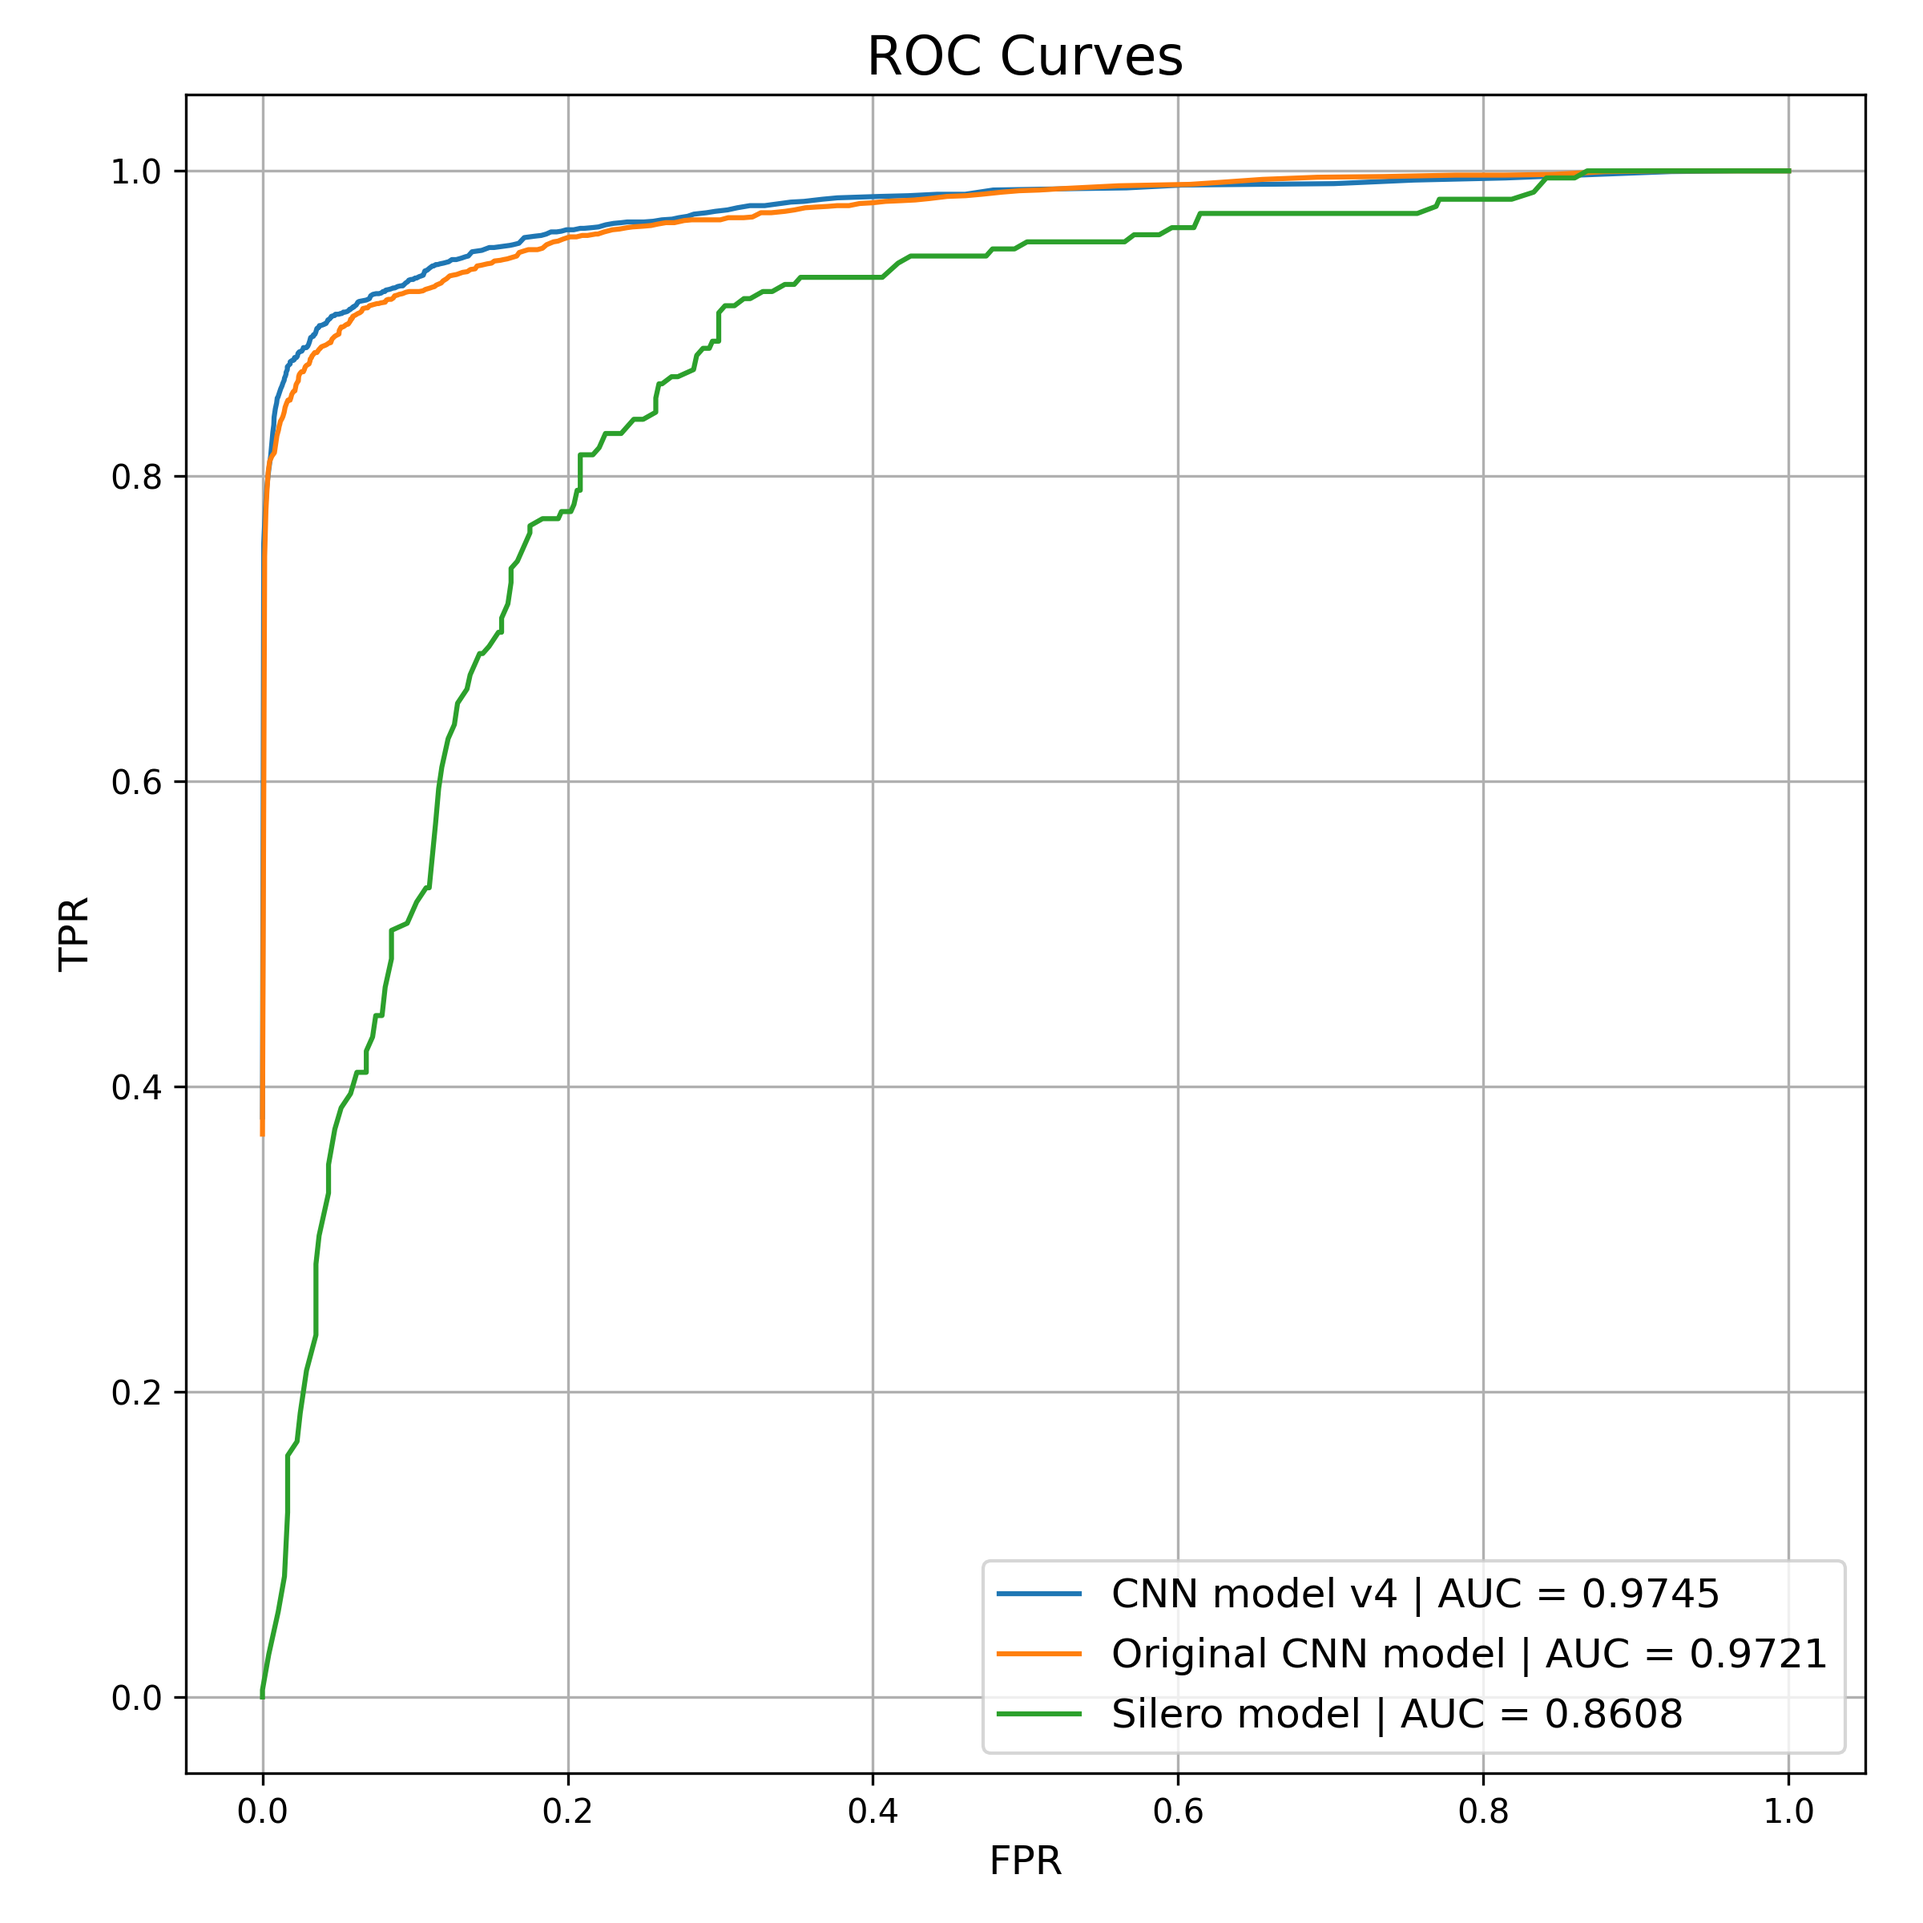
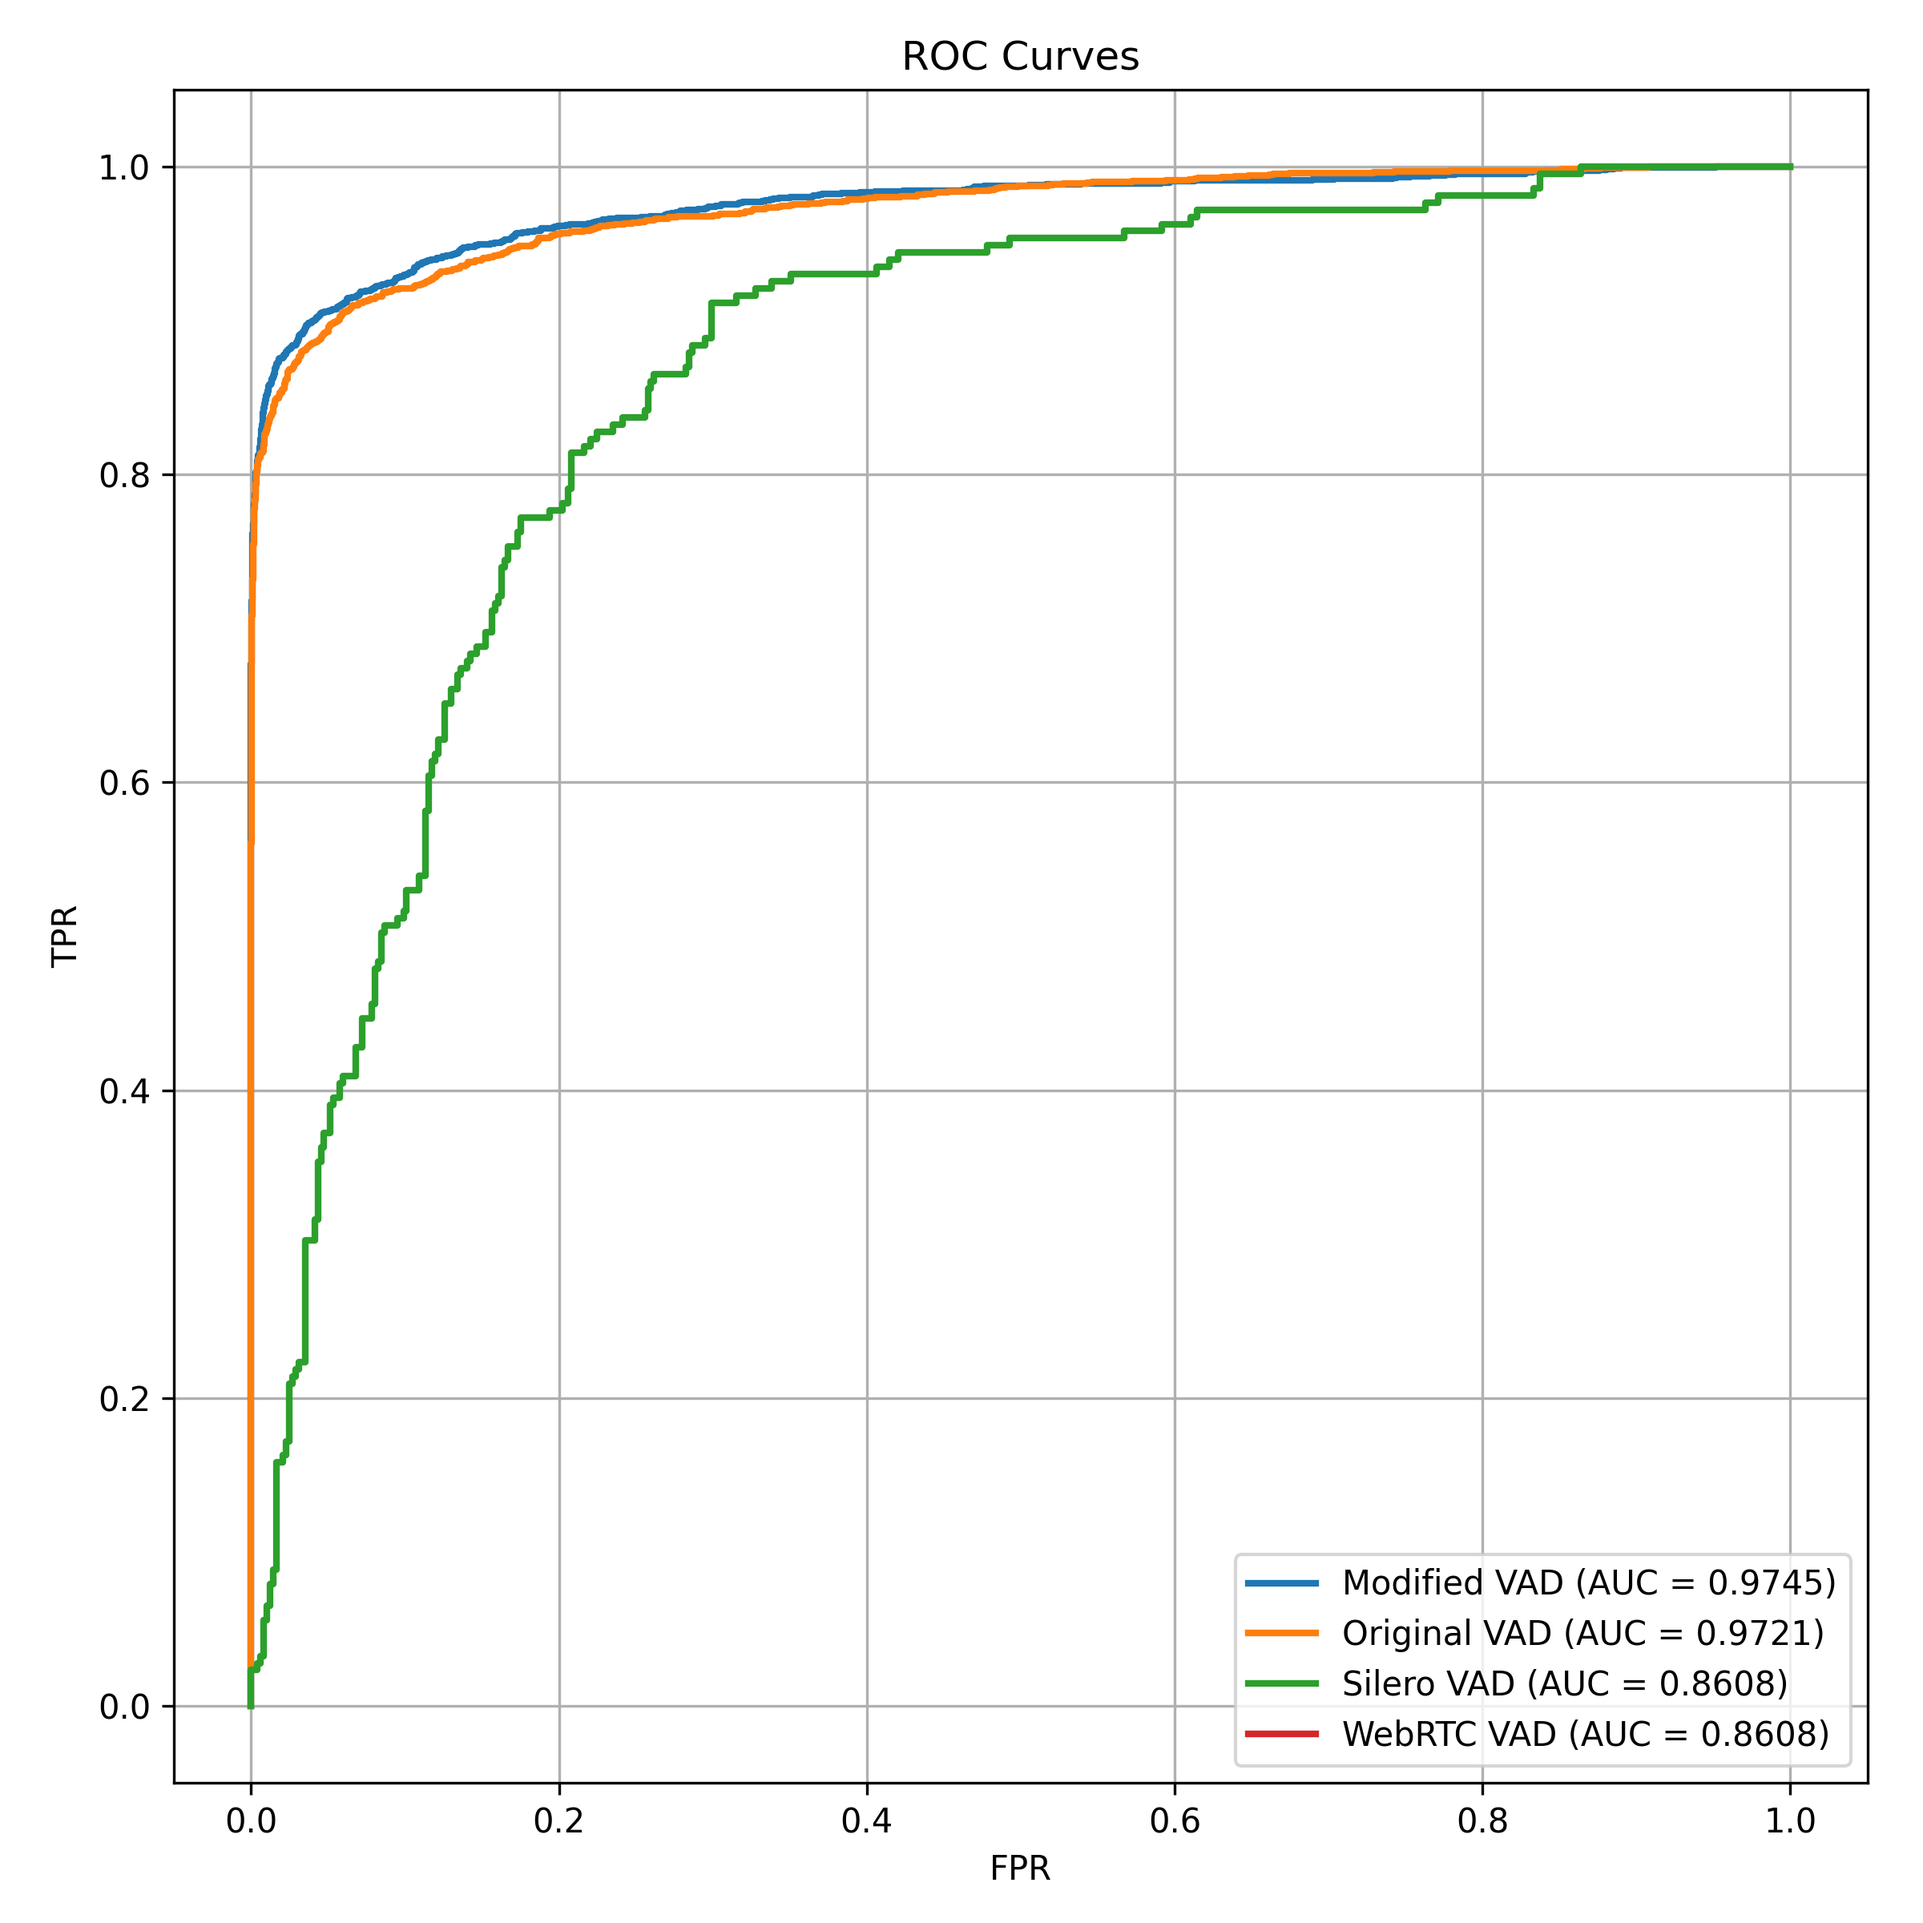
updated precision-recall and auc_roc plots for webrtc VAD

diff --git a/src/evaluation/metrics.py b/src/evaluation/metrics.py
@@ -1,63 +1,91 @@
 import numpy as np
 import matplotlib.pyplot as plt
-from sklearn.metrics import roc_auc_score
-from evaluation.confusion_matrix import calculate_confusion_matrix
+from sklearn.metrics import precision_recall_curve, roc_curve, auc
 
 
-def precision_recall_plot(labels, preds, N=200, is_webrtc=False):
-    precisions = []
-    recalls = []
-
-    if is_webrtc:
-        for i in range(4):
-            cm = calculate_confusion_matrix(labels, preds[i])
-            precisions.append(precision(cm))
-            recalls.append(recall(cm))
-    else:
-        thresholds = np.linspace(0, 1, N, endpoint=False)
-        for threshold in thresholds:
-            cm = calculate_confusion_matrix(labels, preds, threshold)
-            precisions.append(precision(cm))
-            recalls.append(recall(cm))
-
-    #recalls1, precisions1 = precision_recall_curve(original_y, original_y_)
-    # recalls2, precisions2 = precision_recall_curve(v2_y, v2_y_)
-
-    # plt.plot(recalls1, precisions1)
-    # plt.plot(recalls2, precisions2)
-    # #plt.xlim(0, 1.05)
-    # #plt.ylim(0, 1.05)
-    # plt.xlabel("Recall")
-    # plt.ylabel("Precision")
-    # plt.show()
-
-    return recalls, precisions
-
-
-def auc_roc_plot(labels_list, preds_list, model_names, N=200):
-    plt.figure(figsize=(8,8))
-    thresholds = np.linspace(0, 1, N)
+def precision_recall_plot(labels_list, preds_list, model_names):
+    plt.figure(figsize=(8, 8))
 
     for i, (labels, preds) in enumerate(zip(labels_list, preds_list)):
-        tpr = []
-        fpr = []
-        for threshold in thresholds:
-            cm = calculate_confusion_matrix(labels, preds, threshold)
-            tpr.append(recall(cm))
-            fpr.append(fp_rate(cm))
+        if model_names[i] == 'WebRTC VAD':
+            precisions = []
+            recalls = []
+            for i in range(4):
+                cm = calculate_confusion_matrix(labels, preds[i])
+                precisions.append(precision(cm))
+                recalls.append(recall(cm))
+        else:
+            precisions, recalls, _ = precision_recall_curve(labels, preds)
+            pr_auc = auc(recalls, precisions)
 
-        auc_value = roc_auc_score(labels, preds)
-
-        plt.plot(fpr, tpr, label=f'{model_names[i]} | AUC = {auc_value:.4f}')
+        plt.plot(recalls, precisions, label=f'{model_names[i]} (AP = {pr_auc:.4f})', linewidth=2)
 
     plt.gca().set_aspect('equal', adjustable='box')
-    plt.title("ROC Curves", fontsize=16)
-    plt.xlabel("FPR", fontsize=12)
-    plt.ylabel("TPR", fontsize=12)
-    plt.legend(fontsize=12)
+    plt.title("Precision-Recall Curves")
+    plt.xlabel("Recall")
+    plt.ylabel("Precision")
+    plt.legend()
+    plt.grid()
+    plt.tight_layout()
+    plt.savefig('images/precision_recall_curves.png', dpi=300)
+
+
+def auc_roc_plot(labels_list, preds_list, model_names):
+    plt.figure(figsize=(8,8))
+
+    for i, (labels, preds) in enumerate(zip(labels_list, preds_list)):
+        if model_names[i] == 'WebRTC VAD':
+            tpr = []
+            fpr = []
+            for i in range(4):
+                cm = calculate_confusion_matrix(labels, preds[i])
+                tpr.append(recall(cm))
+                fpr.append(fp_rate(cm))
+        else:
+            fpr, tpr, _ = roc_curve(labels, preds)
+            auc_value = auc(fpr, tpr)
+
+        plt.plot(fpr, tpr, label=f'{model_names[i]} (AUC = {auc_value:.4f})', linewidth=2)
+
+    plt.gca().set_aspect('equal', adjustable='box')
+    plt.title("ROC Curves")
+    plt.xlabel("FPR")
+    plt.ylabel("TPR")
+    plt.legend()
     plt.grid()
     plt.tight_layout()
     plt.savefig('images/roc_curves.png', dpi=300)
+
+
+def calculate_confusion_matrix(labels, predictions, threshold=0.5):
+    labels = np.array(labels, dtype=np.float32)
+    predictions = np.array(predictions, dtype=np.float32)
+
+    for i, prediction in enumerate(predictions):
+        if prediction >= threshold:
+            predictions[i] = 1
+        else:
+            predictions[i] = 0
+
+    tp = 0
+    tn = 0
+    fp = 0
+    fn = 0
+
+    for i, prediction in enumerate(predictions):
+        if prediction == 1 and labels[i] == 1:
+            tp += 1
+        elif prediction == 0 and labels[i] == 0:
+            tn += 1
+        elif prediction == 1 and labels[i] == 0:
+            fp += 1
+        elif prediction == 0 and labels[i] == 1:
+            fn += 1
+
+    return {'true_positives': tp,
+            'true_negatives': tn,
+            'false_positives': fp,
+            'false_negatives': fn}
 
 
 def accuracy(confusion_matrix):
@@ -71,7 +99,10 @@ def accuracy(confusion_matrix):
 def precision(confusion_matrix):
     tp = confusion_matrix['true_positives']
     fp = confusion_matrix['false_positives']
-    return tp / (tp + fp)
+    if tp + fp == 0:
+        return 1
+    else:
+        return tp / (tp + fp)
 
 
 def recall(confusion_matrix):

diff --git a/src/evaluation/__init__.py b/src/evaluation/__init__.py
@@ -12,13 +12,15 @@ from evaluation.metrics import *
 def execute_evaluation():
     labels_original, preds_original = predictions('cnn_model_original_25(12,8,5).h5')
     labels_model_v4, preds_model_v4 = predictions('cnn_model_v4_25(12,8,5).h5')
+    #labels_webrtc, preds_webrtc = predictions_webrtc('data/output/prediction_audio_clip_2/audio_clip_2_480samples')
     labels_silero = np.load('data/output/prediction_audio_clip_2/other_model_predictions/silero_labels17200.npy')
     preds_silero = np.load('data/output/prediction_audio_clip_2/other_model_predictions/silero_preds17200.npy')
 
     labels_list = [labels_model_v4, labels_original, labels_silero]
     preds_list = [preds_model_v4, preds_original, preds_silero]
-    model_names = ['CNN model v4', 'Original CNN model', 'Silero model']
+    model_names = ['Modified VAD', 'Original VAD', 'Silero VAD']
 
+    precision_recall_plot(labels_list, preds_list, model_names)
     auc_roc_plot(labels_list, preds_list, model_names)
 
 
@@ -28,21 +30,12 @@ def predictions(model_name):
 
     model = tf.keras.models.load_model(f"models/{model_name}")
     preds = model.predict(x=data, verbose=1)
+    print(f'finished predictions with {model_name}')
 
     return labels, preds
 
 
-def predictions_webrtc():
-    # Normalisering af data
-    # def load_file(file):
-    #     file_data, _ = librosa.load(file, sr=16000, mono=True)
-    #     scaler = MinMaxScaler()
-    #     normalized_data = scaler.fit_transform(file_data.reshape(-1, 1)).reshape(-1)
-    #     clips = np.frombuffer(normalized_data, dtype=np.int16).reshape(-1, 2)
-    #     label = int(os.path.basename(file).split("_")[-1][0])
-    #     return clips, label
-
-
+def predictions_webrtc(path):
     def _load_file(file):
         file_data, _ = librosa.load(file, sr=16000, mono=True)
         clips = np.frombuffer(file_data, dtype=np.int16).reshape(-1, 2)
@@ -50,9 +43,8 @@ def predictions_webrtc():
         return clips, label
 
 
-    labels = []
-    path = "data/output/prediction_audio_clip_2/audio_clip_2_480samples"
     files = [os.path.join(path, file) for file in os.listdir(path) if file.endswith(".wav")]
+    labels = []
     preds = []
 
     batch_size = 100
@@ -68,7 +60,6 @@ def predictions_webrtc():
             labels += batch_labels
             clips = np.array(clips)
             clips = np.reshape(clips, (batch_size, -1))
-            print(f'batch {batch_idx+1}/{num_batches}')
 
             batch_preds = []
             for i in range(4):
@@ -77,5 +68,7 @@ def predictions_webrtc():
                 batch_preds.append(mode_preds)
 
             preds.append(np.array(batch_preds))
+
+    print('finished predictions with WebRTC VAD')
 
     return labels, np.concatenate(preds, axis=1)
